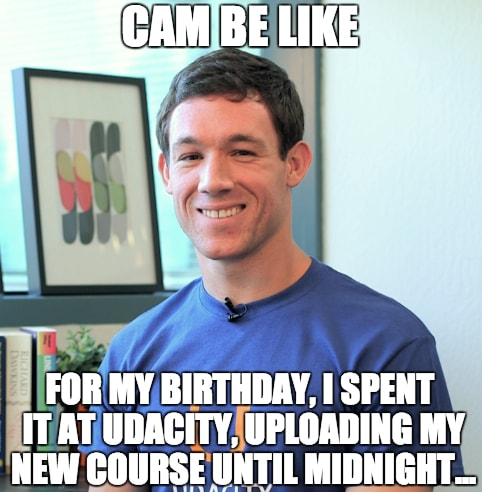
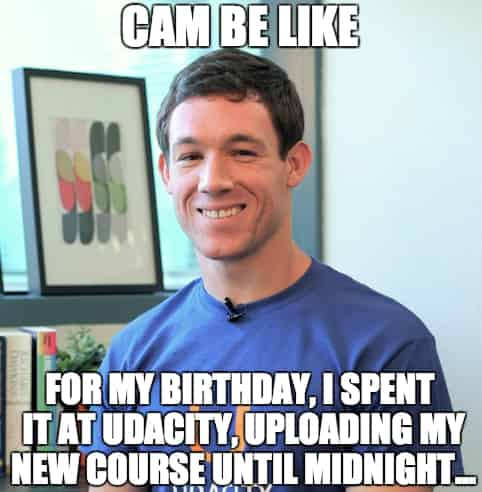
feat: higher lossy jpg image compression

diff --git a/docs/gulpfile.js b/docs/gulpfile.js
@@ -144,7 +144,7 @@ gulp.task('imagemin', function() {
             }),
             //jpg very light lossy, use vs jpegtran
             imageminMozjpeg({
-                quality: 90
+                quality: 40
             })
         ]))
         .pipe(gulp.dest('./img/'));
@@ -182,7 +182,7 @@ gulp.task('imagemin', function() {
             }),
             //jpg very light lossy, use vs jpegtran
             imageminMozjpeg({
-                quality: 90
+                quality: 40
             })
         ]))
         .pipe(gulp.dest('./views/images/'));
